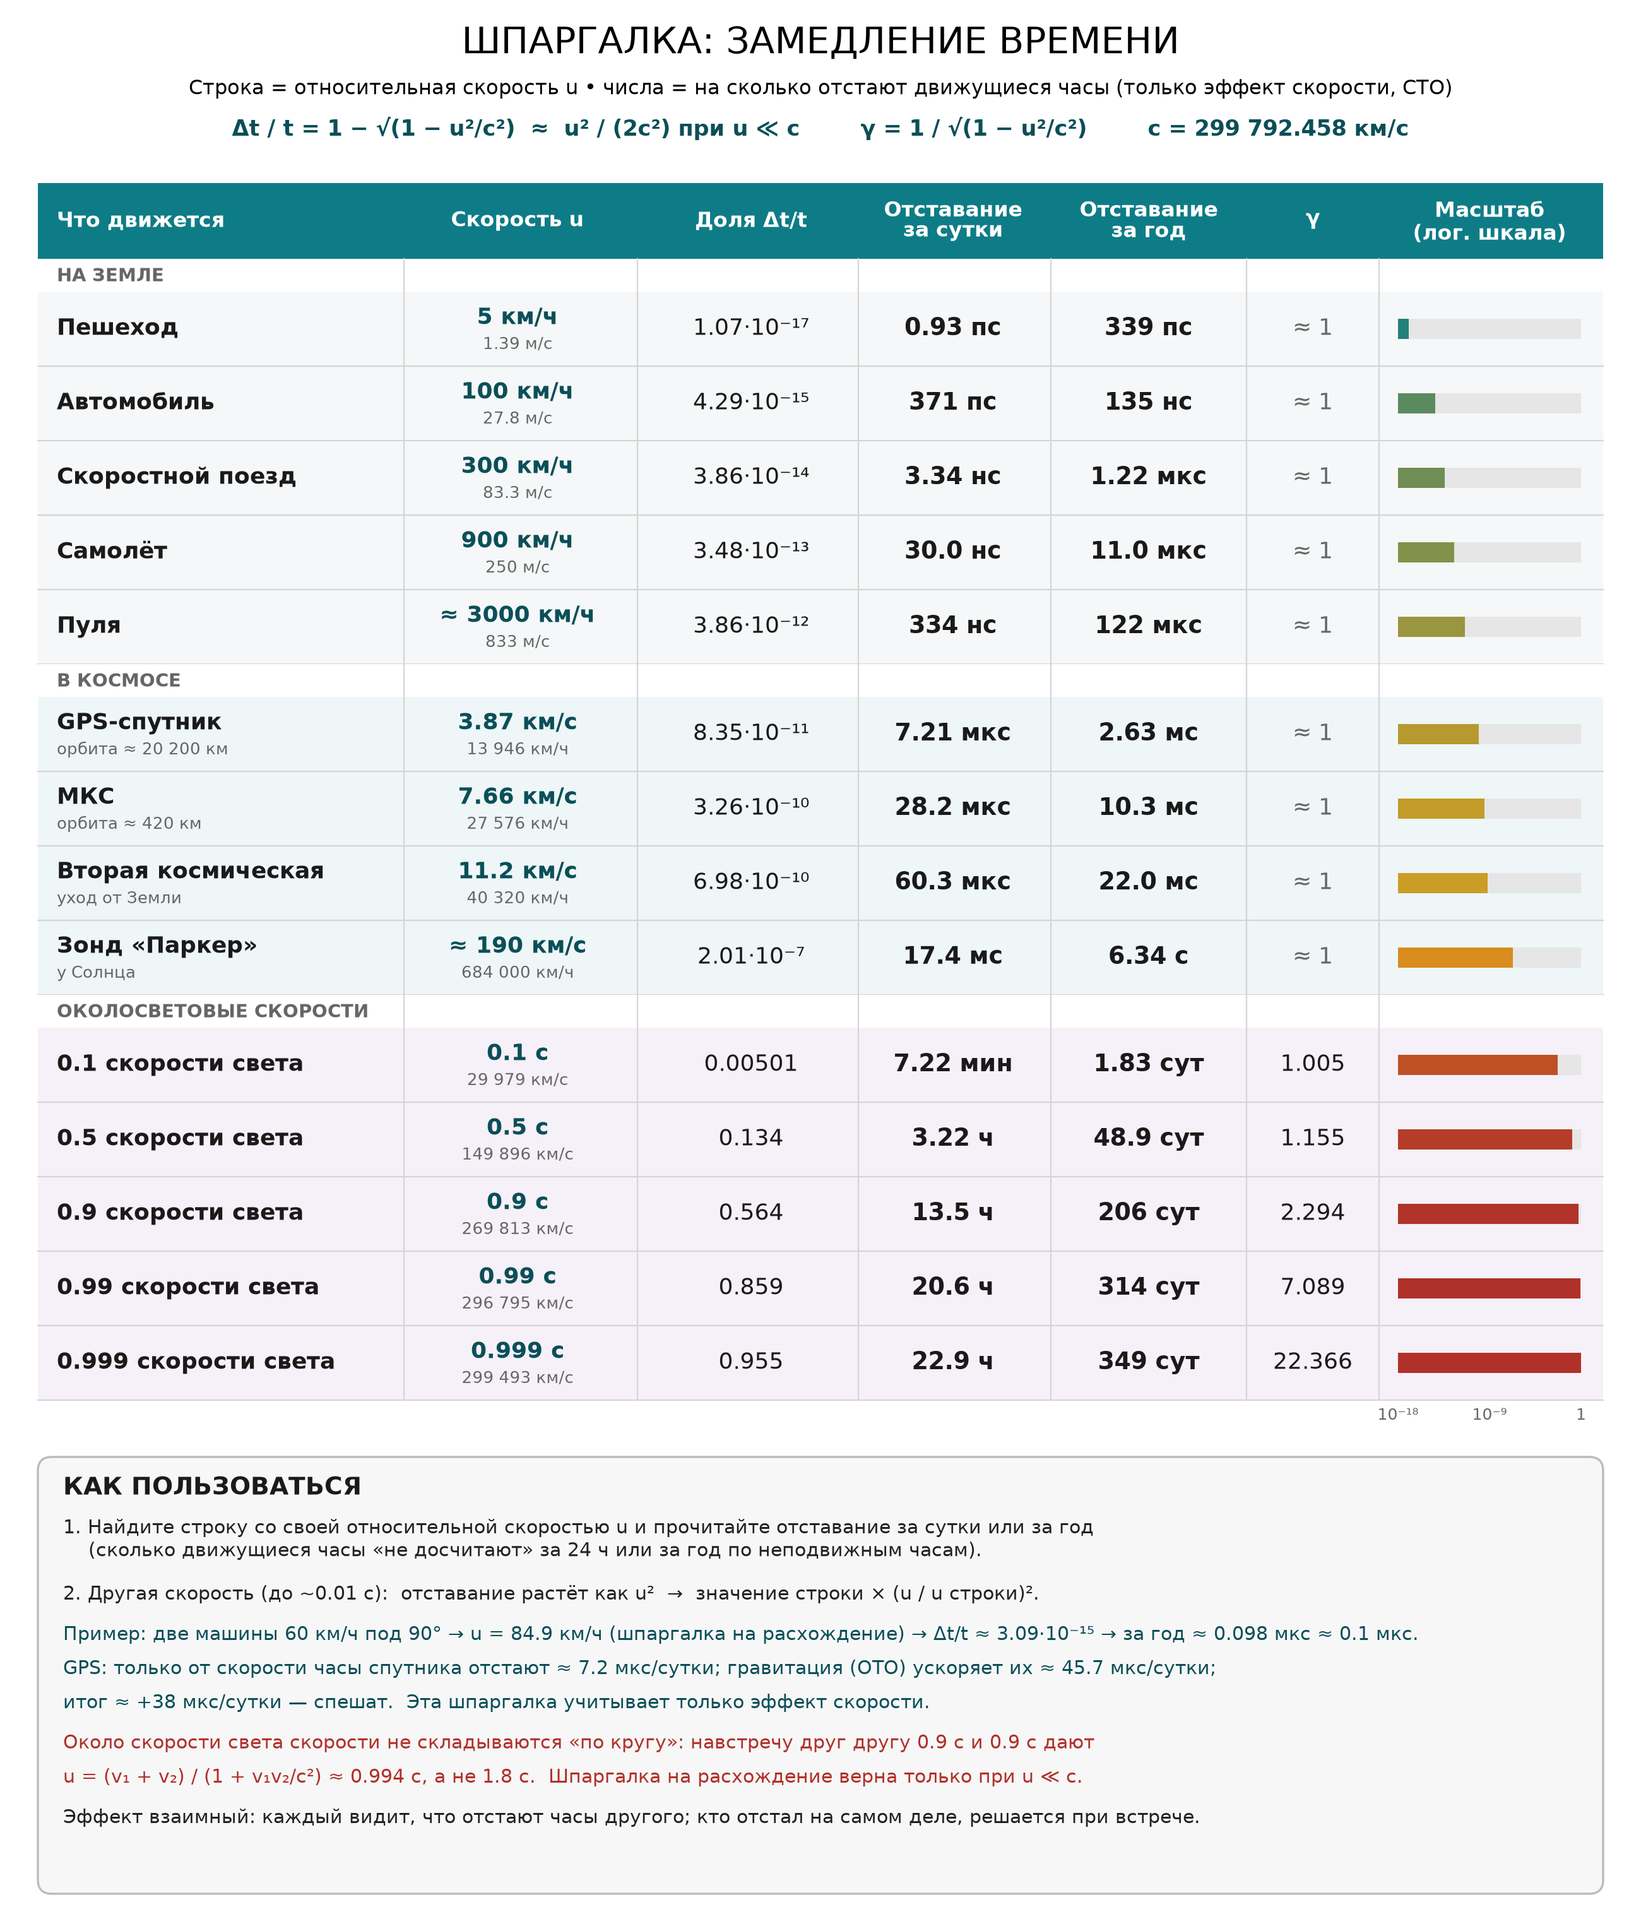
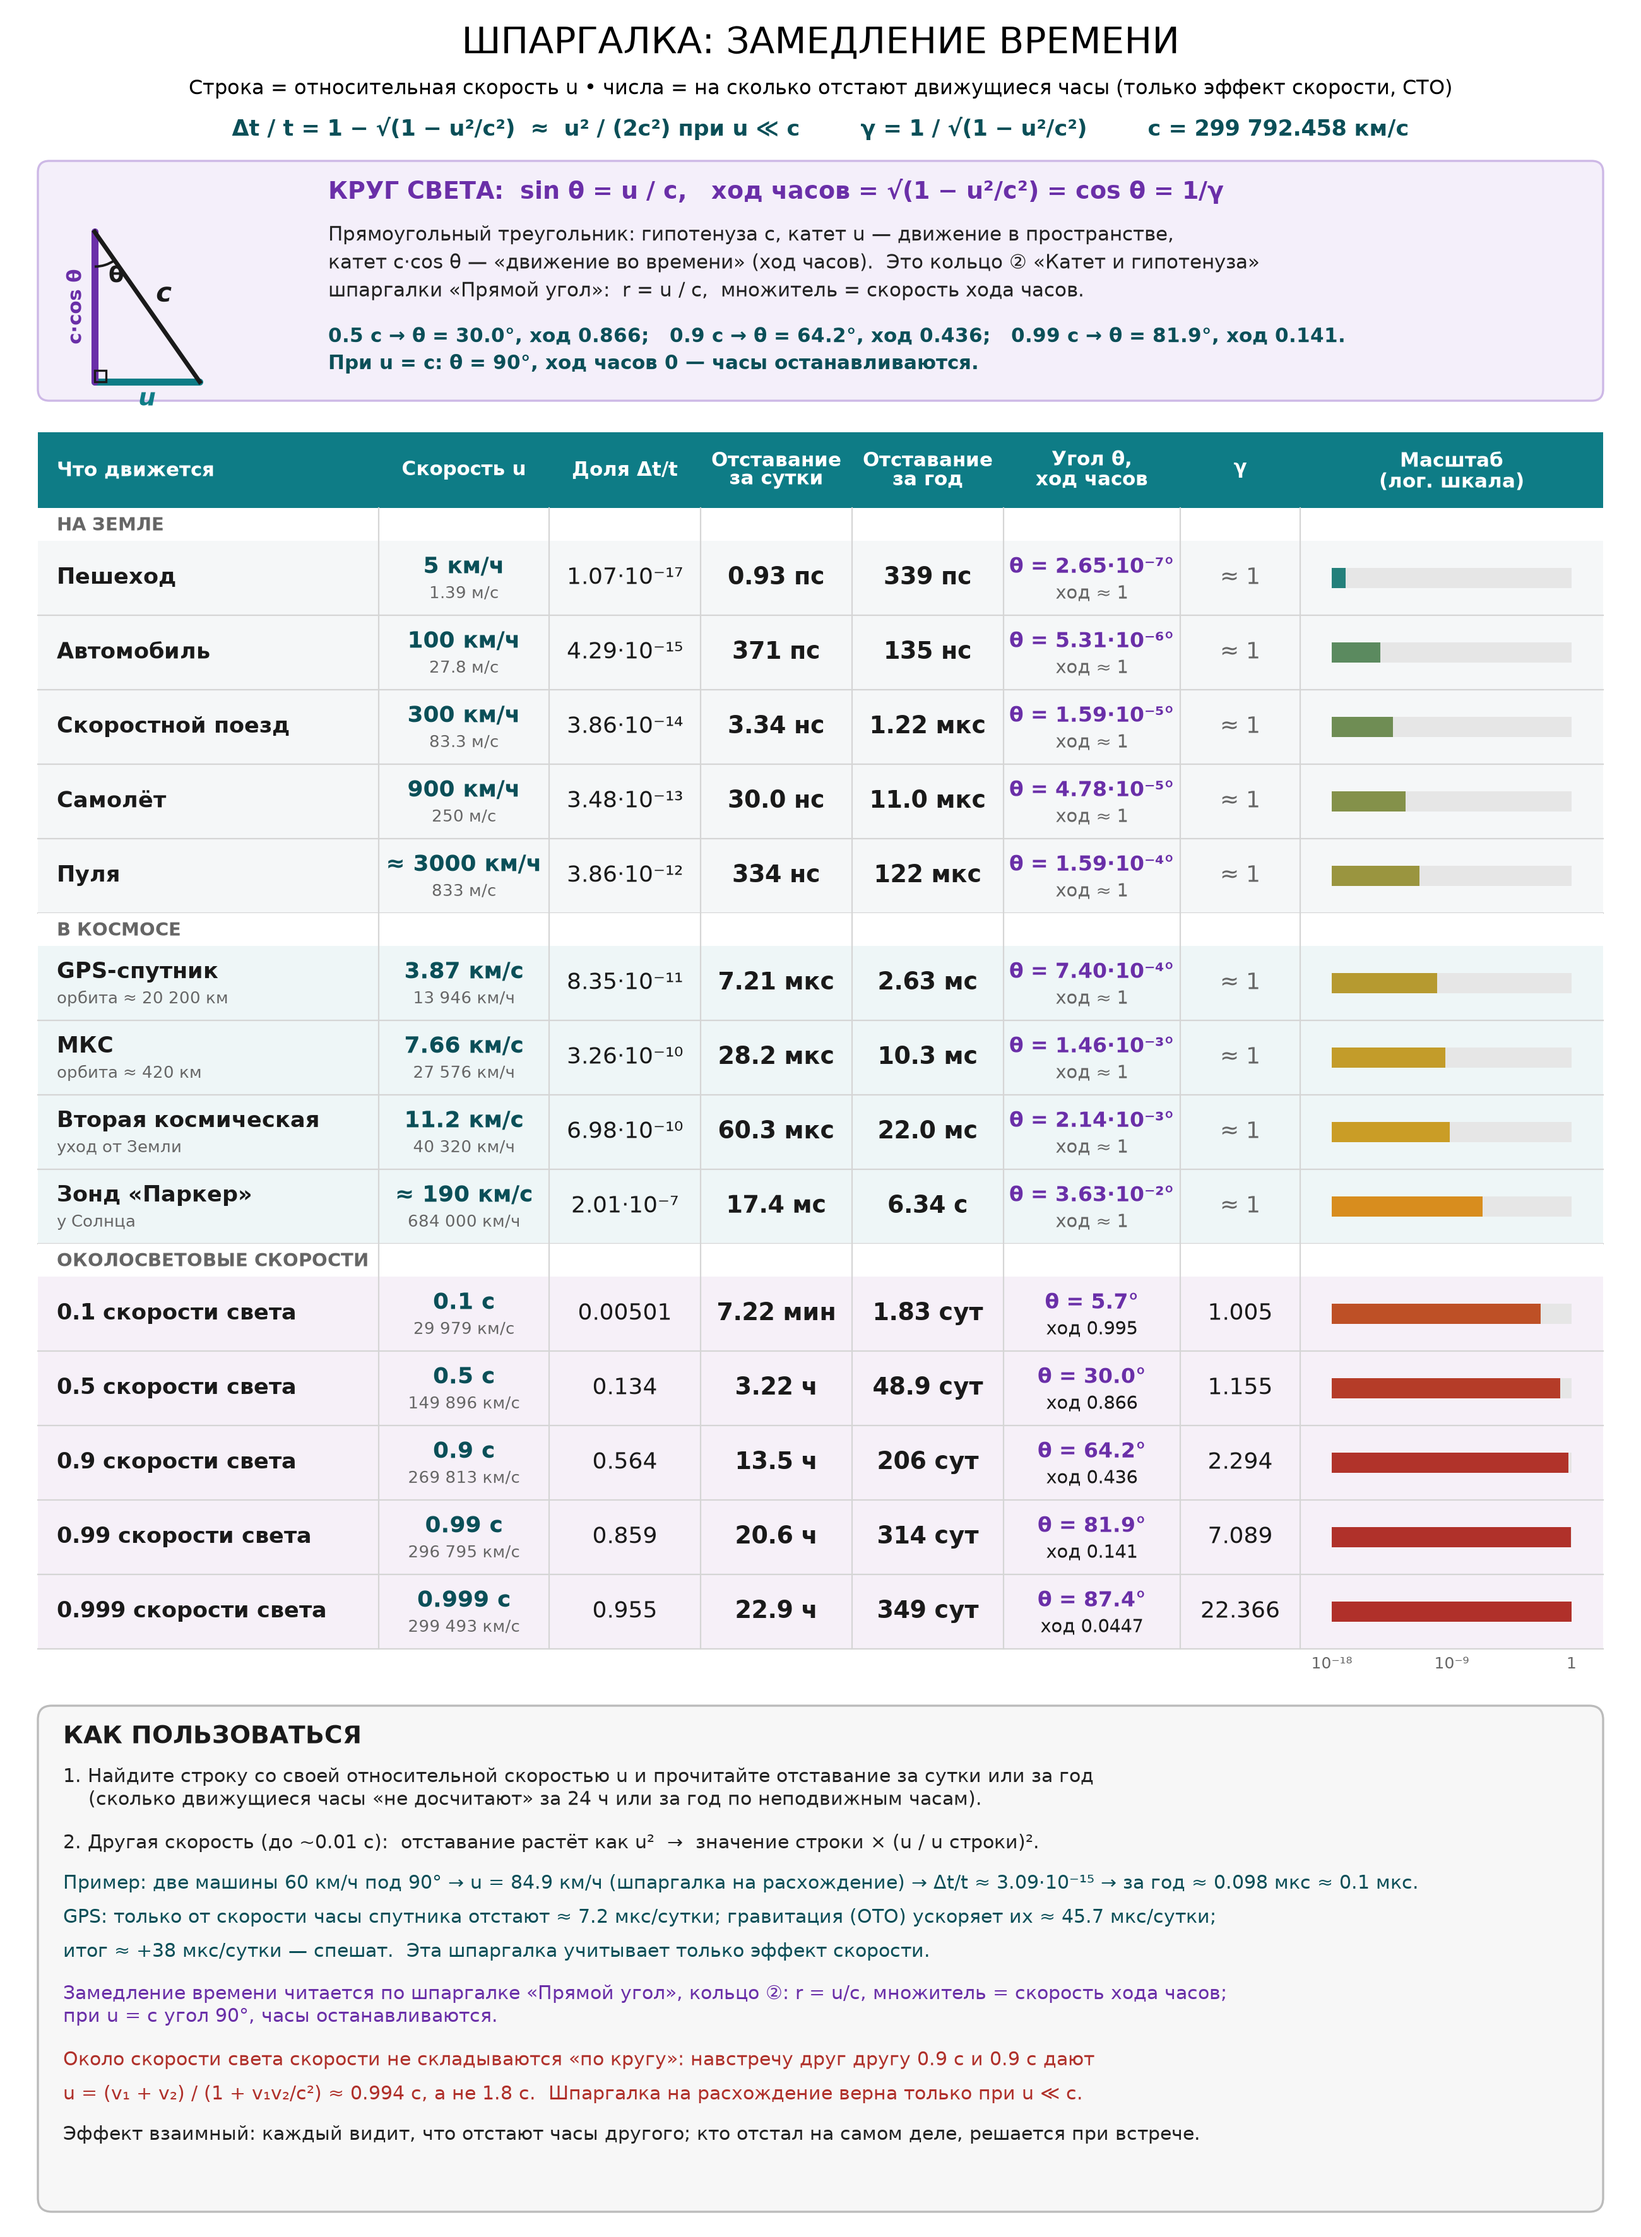
Замедление времени: интерпретация через круг (кольцо ② шпаргалки «Прямой угол»), угол θ и ход часов

Changed region(s): [[0.0, 0.0, 0.9969, 0.9688]]

diff --git a/index.html b/index.html
@@ -296,6 +296,16 @@ u²/(2c²)), отставание за сутки и за год и лоренц
 </p>
 
 <p>
+<b>Круг света.</b> Если sin θ = u/c, то ход часов √(1 − u²/c²) = cos θ = 1/γ:
+прямоугольный треугольник с гипотенузой c, катетом u (движение в
+пространстве) и катетом c·cos θ (движение во времени). Поэтому замедление
+времени читается по шпаргалке «Прямой угол», кольцо ② «Катет и гипотенуза»:
+r = u/c, множитель = скорость хода часов. 0,5c → θ = 30°, ход 0,866;
+0,9c → 64,2°, 0,436; 0,99c → 81,9°, 0,141; при u = c угол 90°, часы
+останавливаются.
+</p>
+
+<p>
 <b>Пример:</b> две машины 60 км/ч под 90° → u ≈ 84,9 км/ч →
 Δt/t ≈ 3,09·10⁻¹⁵ → за год ≈ 0,1 мкс.
 </p>
@@ -315,7 +325,10 @@ walker at 5 km/h to 0.999c. Values: lag fraction Δt/t = 1 − √(1 − u²/c²
 ≈ u²/(2c²), lag per day and per year, Lorentz factor γ. <b>Example:</b> two
 cars at 60 km/h, 90° apart → u ≈ 84.9 km/h → about 0.1 μs per year. GPS:
 speed alone slows the satellite clock by ≈ 7.2 μs/day, gravity speeds it up
-by ≈ 45.7 μs/day, net ≈ +38 μs/day. Near light speed, velocities add
+by ≈ 45.7 μs/day, net ≈ +38 μs/day. Circle view: with sin θ = u/c the clock rate is
+cos θ = 1/γ — ring ② (leg and hypotenuse) of the right-angle sheet, r = u/c,
+multiplier = clock rate (0.5c → 30°, 0.866; 0.9c → 64.2°, 0.436;
+0.99c → 81.9°, 0.141). Near light speed, velocities add
 relativistically, so the divergence sheet is valid only for u ≪ c.
 </p>
 

diff --git a/README.md b/README.md
@@ -110,11 +110,13 @@ Two objects leave one point at the same speed $v$ with angle $\gamma$ between th
 
 Сколько отстают движущиеся часы (специальная теория относительности, только эффект скорости). Строка — относительная скорость $u$ (например, скорость расхождения из раздела 4): от пешехода 5 км/ч до 0,999 скорости света. Числа — доля отставания $\Delta t / t = 1 - \sqrt{1 - u^2/c^2}$ (при $u \ll c$ примерно $u^2 / (2c^2)$), отставание за сутки и за год и лоренц-фактор $\gamma = 1/\sqrt{1 - u^2/c^2}$. При малых скоростях отставание растёт как $u^2$: для другой скорости умножьте значение строки на $(u / u_\text{строки})^2$.
 
+**Круг света.** Если $\sin\theta = u/c$, то ход часов $\sqrt{1 - u^2/c^2} = \cos\theta = 1/\gamma$: прямоугольный треугольник с гипотенузой $c$, катетом $u$ (движение в пространстве) и катетом $c\cos\theta$ (движение во времени). Поэтому замедление времени читается по шпаргалке «Прямой угол», кольцо ② «Катет и гипотенуза»: $r = u/c$, множитель = скорость хода часов. 0,5c → θ = 30°, ход 0,866; 0,9c → 64,2°, 0,436; 0,99c → 81,9°, 0,141; при $u = c$ угол 90°, часы останавливаются.
+
 **Пример:** две машины 60 км/ч под 90° → $u \approx 84{,}9$ км/ч → $\Delta t / t \approx 3{,}09 \cdot 10^{-15}$ → за год ≈ 0,1 мкс.
 
 GPS: только от скорости (3,87 км/с) часы спутника отстают ≈ 7,2 мкс/сутки, но гравитация (ОТО) ускоряет их ≈ 45,7 мкс/сутки, итог ≈ +38 мкс/сутки. Шпаргалка учитывает только эффект скорости. Около скорости света скорости не складываются «по кругу» (навстречу 0,9c и 0,9c дают ≈ 0,994c), поэтому шпаргалка на расхождение верна только при $u \ll c$.
 
-How much a moving clock lags (special relativity, speed effect only). Rows = relative speed $u$ (e.g. the divergence speed from section 4), from a walker at 5 km/h to 0.999c. Values: lag fraction $\Delta t / t = 1 - \sqrt{1 - u^2/c^2} \approx u^2/(2c^2)$, lag per day and per year, Lorentz factor $\gamma$. **Example:** two cars at 60 km/h, 90° apart → $u \approx 84.9$ km/h → about 0.1 μs per year. GPS: speed alone slows the satellite clock by ≈ 7.2 μs/day, gravity speeds it up by ≈ 45.7 μs/day, net ≈ +38 μs/day. Near light speed, velocities add relativistically, so the divergence sheet is valid only for $u \ll c$.
+How much a moving clock lags (special relativity, speed effect only). Rows = relative speed $u$ (e.g. the divergence speed from section 4), from a walker at 5 km/h to 0.999c. Values: lag fraction $\Delta t / t = 1 - \sqrt{1 - u^2/c^2} \approx u^2/(2c^2)$, lag per day and per year, Lorentz factor $\gamma$. **Example:** two cars at 60 km/h, 90° apart → $u \approx 84.9$ km/h → about 0.1 μs per year. GPS: speed alone slows the satellite clock by ≈ 7.2 μs/day, gravity speeds it up by ≈ 45.7 μs/day, net ≈ +38 μs/day. Circle view: with $\sin\theta = u/c$ the clock rate is $\cos\theta = 1/\gamma$ — ring ② (leg and hypotenuse) of the right-angle sheet, $r = u/c$, multiplier = clock rate (0.5c → 30°, 0.866; 0.9c → 64.2°, 0.436; 0.99c → 81.9°, 0.141). Near light speed, velocities add relativistically, so the divergence sheet is valid only for $u \ll c$.
 
 ---
 
